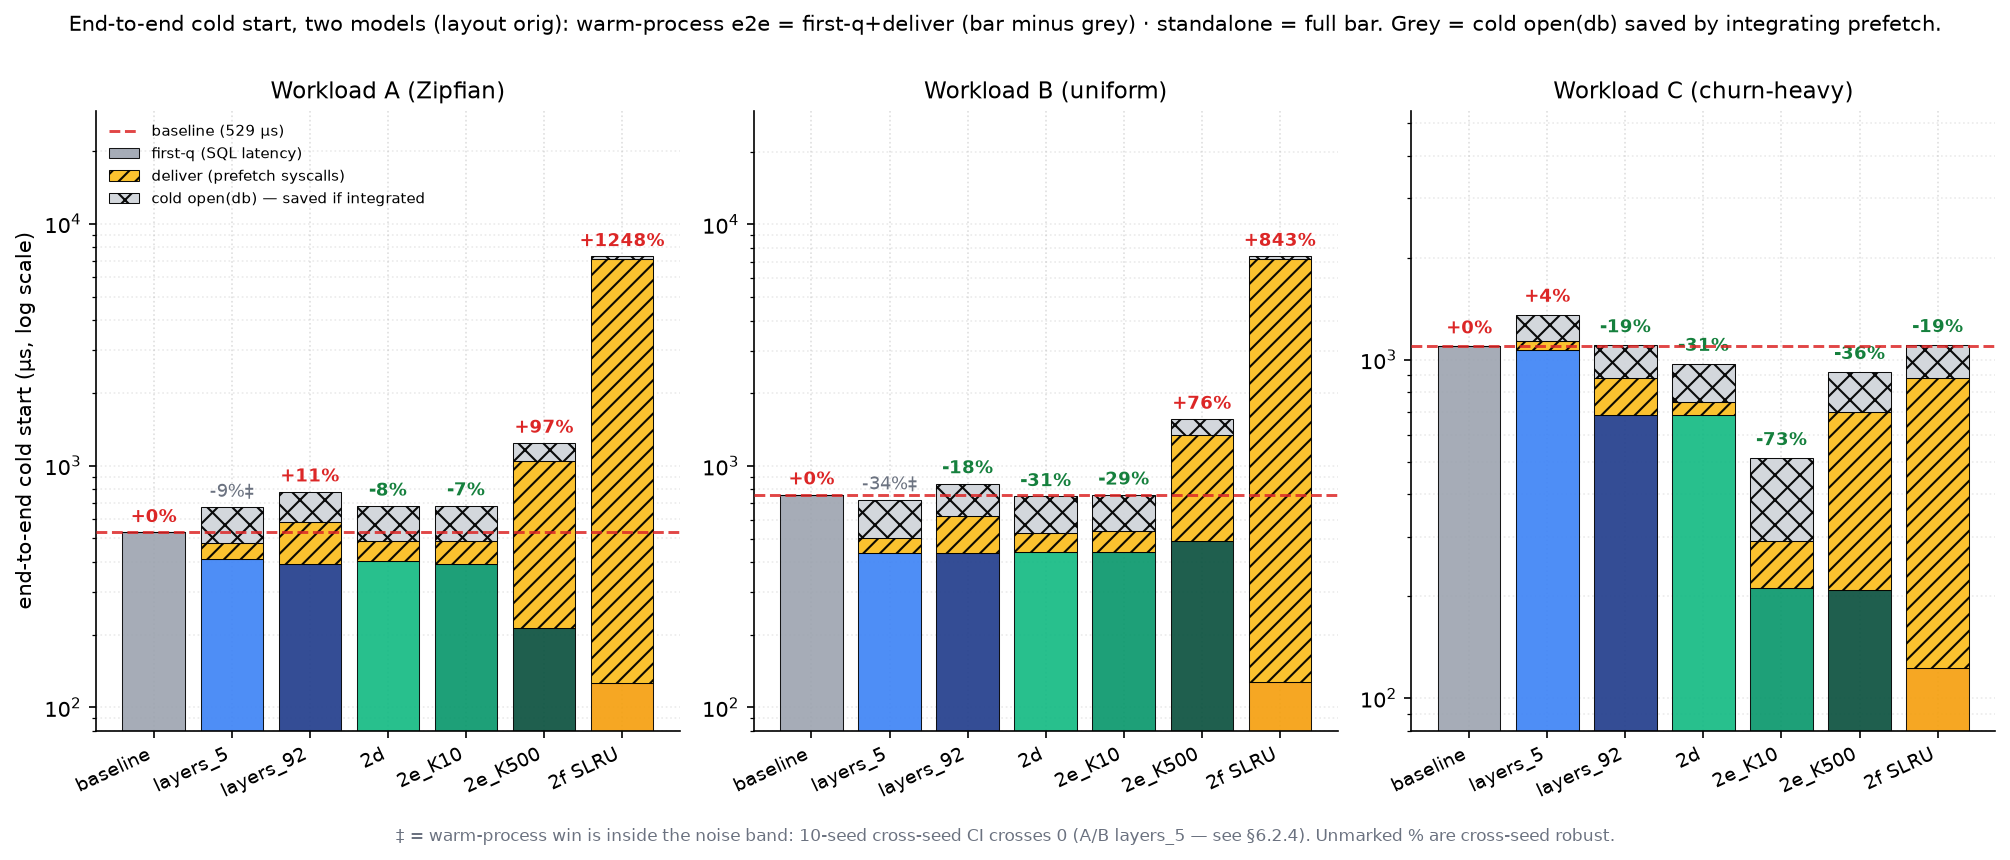
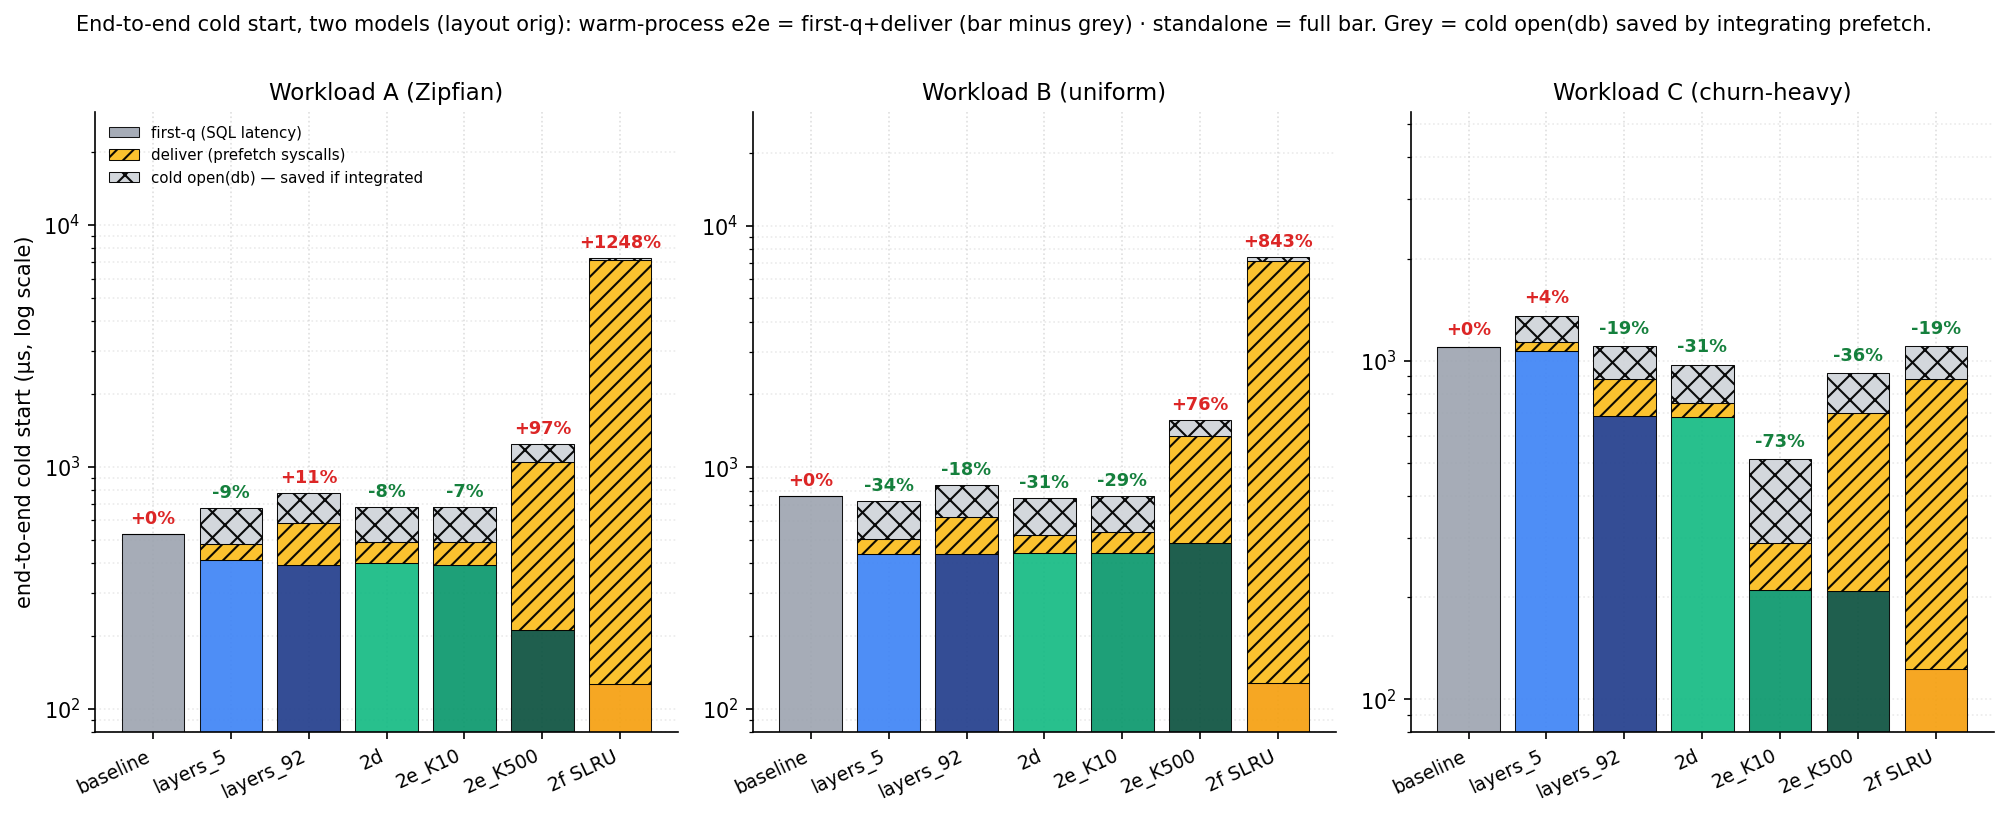
figs: first-query line variants + fig14 declutter + fig13 file-tail label
- 13_strategy_firstq_bars: Workload C label "churn-heavy" -> "file-tail" to
  match the paper's §7.1 wording; regenerate.
- 13b_strategy_firstq_lines (new): absolute-µs line variant (7 strategy lines).
- 13c_strategy_firstq_improvement (new): improvement-% line variant, positive-up,
  machine-state neutral (dimensionless).
- 14_strategy_endtoend_stacked: drop the red baseline reference line and the
  cross-seed ‡ noise marker + footnote; uniform green/red warm-process labels.

All regenerated from results/main (authoritative batch).

diff --git a/figures/13c_strategy_firstq_improvement.py b/figures/13c_strategy_firstq_improvement.py
@@ -1,0 +1,58 @@
+"""Figure 13c: First-query *improvement %* — strategy line-chart variant.
+
+Third view of figure 13 (bars = 13_strategy_firstq_bars, absolute-us lines =
+13b_strategy_firstq_lines). Here y is the first-query improvement over the
+same-workload baseline, plotted positive-up so "higher = better" reads at a
+glance. Being dimensionless, it is also machine-state neutral (no absolute us).
+One line per strategy across the 3 workloads; baseline omitted (0% by
+definition, drawn as the reference line at y=0).
+
+Data (master batch, authoritative): results/main/summary.csv, async arm,
+layout=orig, median of 10 reps (warmup dropped).
+"""
+from plot_utils import save, load_summary, STRAT_ORDER, STRAT_LABELS
+import matplotlib.pyplot as plt
+import numpy as np
+
+DATA = load_summary("async")
+# drop baseline (it is 0% by construction -> the reference line)
+STRATEGIES = [s for s in STRAT_ORDER if s != "baseline"]
+# distinct hues so the lines separate by colour alone (no markers)
+LINE_COLORS = {
+    'layers_5':  '#2563eb',  # blue
+    'layers_92': '#7c3aed',  # violet
+    '2d':        '#059669',  # green
+    '2e_K10':    '#0891b2',  # cyan
+    '2e_K500':   '#db2777',  # magenta
+    '2f_slru':   '#ea580c',  # orange
+}
+WORKLOADS = ['A', 'B', 'C']
+WL_LABEL = {'A': 'A\n(Zipfian)', 'B': 'B\n(uniform)', 'C': 'C\n(file-tail)'}
+
+fig, ax = plt.subplots(figsize=(6.4, 4.6))
+x = np.arange(len(WORKLOADS))
+
+for s in STRATEGIES:
+    y = []
+    for wl in WORKLOADS:
+        base = float(DATA[(wl, 'orig', 'baseline')]['fq_median'])
+        val = float(DATA[(wl, 'orig', s)]['fq_median'])
+        y.append((base - val) / base * 100.0)
+    ax.plot(x, y, color=LINE_COLORS[s], lw=2.2, label=STRAT_LABELS[s])
+
+ax.axhline(0, color='#9ca3af', lw=1.0, ls='--', zorder=0)
+ax.text(len(WORKLOADS) - 1.02, 1.5, 'baseline (no improvement)', fontsize=7.5,
+        color='#9ca3af', ha='right', va='bottom')
+ax.set_xticks(x)
+ax.set_xticklabels([WL_LABEL[w] for w in WORKLOADS], fontsize=9.5)
+ax.set_xlim(-0.25, len(WORKLOADS) - 0.75)
+ax.set_ylim(-5, 100)
+ax.set_ylabel('first-query improvement vs baseline (%)', fontsize=10)
+ax.set_xlabel('workload', fontsize=10)
+ax.grid(axis='y', alpha=0.3)
+ax.set_axisbelow(True)
+ax.legend(loc='center left', bbox_to_anchor=(1.01, 0.5), fontsize=9,
+          title='strategy', title_fontsize=9)
+ax.set_title('First-query improvement by strategy (async, layout=orig)', fontsize=11)
+fig.tight_layout()
+save(fig, '13c_strategy_firstq_improvement')

diff --git a/figures/13b_strategy_firstq_lines.py b/figures/13b_strategy_firstq_lines.py
@@ -1,0 +1,49 @@
+"""Figure 13b: First-query latency — strategy line-chart variant of figure 13.
+
+Line version of figure 13 (bar chart kept as 13_strategy_firstq_bars). Each of
+the 7 strategies is one line across the 3 workloads (x axis), log y, so the
+strategies compare directly: 2f_slru sits lowest on every workload, while
+2e_K10 only reaches the floor on C and layers_N clusters mid-range. More
+compact than the 3-panel bar chart for the two-column VLDB layout.
+
+Data (master batch, authoritative): results/main/summary.csv, async arm,
+layout=orig, median of 10 reps (warmup dropped).
+"""
+from plot_utils import save, load_summary, STRAT_ORDER, STRAT_LABELS, STRATEGY_COLORS
+import matplotlib.pyplot as plt
+import numpy as np
+
+DATA = load_summary("async")
+STRATEGIES = STRAT_ORDER
+# (linestyle, marker) per strategy — breaks up the blue (structural) and green
+# (access-pattern) colour families so overlapping lines stay traceable.
+STYLE = {
+    'baseline': ('-', 'o'), 'layers_5': ('-', 's'), 'layers_92': ('--', '^'),
+    '2d': ('-', 'D'), '2e_K10': ('--', 'v'), '2e_K500': (':', 'P'),
+    '2f_slru': ('-', 'X'),
+}
+WORKLOADS = ['A', 'B', 'C']
+WL_LABEL = {'A': 'A\n(Zipfian)', 'B': 'B\n(uniform)', 'C': 'C\n(file-tail)'}
+
+fig, ax = plt.subplots(figsize=(6.4, 4.6))
+x = np.arange(len(WORKLOADS))
+
+for s in STRATEGIES:
+    ls, mk = STYLE[s]
+    y = [float(DATA[(wl, 'orig', s)]['fq_median']) for wl in WORKLOADS]
+    ax.plot(x, y, ls=ls, marker=mk, color=STRATEGY_COLORS.get(s, '#3b82f6'),
+            lw=1.8, ms=7, label=STRAT_LABELS[s])
+
+ax.set_yscale('log')
+ax.set_xticks(x)
+ax.set_xticklabels([WL_LABEL[w] for w in WORKLOADS], fontsize=9.5)
+ax.set_xlim(-0.25, len(WORKLOADS) - 0.75)
+ax.set_ylabel('first-query latency (µs, log scale)', fontsize=10)
+ax.set_xlabel('workload', fontsize=10)
+ax.grid(axis='y', alpha=0.3, which='both')
+ax.set_axisbelow(True)
+ax.legend(loc='center left', bbox_to_anchor=(1.01, 0.5), fontsize=9,
+          title='strategy', title_fontsize=9)
+ax.set_title('First-query latency by strategy (async, layout=orig)', fontsize=11)
+fig.tight_layout()
+save(fig, '13b_strategy_firstq_lines')

diff --git a/figures/14_strategy_endtoend_stacked.py b/figures/14_strategy_endtoend_stacked.py
@@ -22,16 +22,6 @@ WORKLOADS = ['A', 'B', 'C']
 WL_TITLE = {'A': 'Workload A (Zipfian)', 'B': 'Workload B (uniform)',
             'C': 'Workload C (churn-heavy)'}
 
-# Cross-seed (10-seed) warm-e2e verdict per (workload, strategy), layout=orig, from
-# results/stats/uncertainty.csv (metric e2e_warm_us, arm async). A single-workload bar can
-# show a green "win" that the 10-seed CI says is actually inside the noise band (CI crosses 0).
-# Those are the cells whose warm-process flip-to-win is NOT robust -- we mark them so the
-# headline width does not read wider than the evidence (review item: "標翻盤是否落在 noise 內").
-NOISE_VERDICT = {            # cells whose warm-process win is within noise (CI crosses 0)
-    ('A', 'layers_5'): 'tie',          # -5% [-16, +4]  6/10
-    ('B', 'layers_5'): 'directional',  # -1% [-12, +7]  8/10
-}
-
 fig, axes = plt.subplots(1, 3, figsize=(13.5, 5.4), sharey=False)
 x = np.arange(len(STRATEGIES))
 
@@ -51,19 +41,13 @@ for ax, wl in zip(axes, WORKLOADS):
            linewidth=0.5, hatch='///', label='deliver (prefetch syscalls)')
     ax.bar(x, opens, bottom=warm, color='#d1d5db', alpha=0.95, edgecolor='black',
            linewidth=0.5, hatch='xx', label='cold open(db) — saved if integrated')
-    ax.axhline(baseline, color='#dc2626', ls='--', lw=1.4, alpha=0.85, zorder=4,
-               label=f'baseline ({baseline:.0f} µs)')
 
     for xi, wv, sv, s in zip(x, warm, standalone, STRATEGIES):
         wi = (wv - baseline) / baseline * 100          # warm-process e2e vs baseline (headline)
         wsign = '+' if wi >= 0 else ''
-        noise = NOISE_VERDICT.get((wl, s))             # within-noise warm-process flip?
-        if noise:                                      # grey + dagger: 10-seed CI crosses 0
-            label, col, fw = f'{wsign}{wi:.0f}%‡', '#6b7280', 'normal'
-        else:
-            label, col, fw = f'{wsign}{wi:.0f}%', ('#15803d' if wi < 0 else '#dc2626'), 'bold'
-        ax.text(xi, sv * 1.06, label, ha='center', va='bottom',
-                fontsize=8.5, fontweight=fw, color=col)
+        col = '#15803d' if wi < 0 else '#dc2626'
+        ax.text(xi, sv * 1.06, f'{wsign}{wi:.0f}%', ha='center', va='bottom',
+                fontsize=8.5, fontweight='bold', color=col)
 
     ax.set_xticks(x)
     ax.set_xticklabels([STRAT_LABELS[s] for s in STRATEGIES], fontsize=9, rotation=25, ha='right')
@@ -80,9 +64,5 @@ fig.suptitle('End-to-end cold start, two models (layout orig): '
              'warm-process e2e = first-q+deliver (bar minus grey) · standalone = full bar. '
              'Grey = cold open(db) saved by integrating prefetch.',
              fontsize=10, y=1.0)
-fig.text(0.5, -0.02,
-         '‡ = warm-process win is inside the noise band: 10-seed cross-seed CI crosses 0 '
-         '(A/B layers_5 — see §6.2.4). Unmarked % are cross-seed robust.',
-         ha='center', fontsize=8, color='#6b7280')
 fig.tight_layout()
 save(fig, '14_strategy_endtoend_stacked')

diff --git a/figures/13_strategy_firstq_bars.py b/figures/13_strategy_firstq_bars.py
@@ -17,7 +17,7 @@ LABELS = [STRAT_LABELS[s] for s in STRATEGIES]
 COLORS = [STRATEGY_COLORS.get(s, "#3b82f6") for s in STRATEGIES]
 WORKLOADS = ['A', 'B', 'C']
 WL_TITLE = {'A': 'Workload A (Zipfian)', 'B': 'Workload B (uniform)',
-            'C': 'Workload C (churn-heavy)'}
+            'C': 'Workload C (file-tail)'}
 
 fig, axes = plt.subplots(1, 3, figsize=(13, 4.6), sharey=False)
 x = np.arange(len(STRATEGIES))